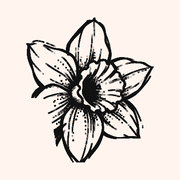
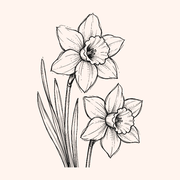
updates

Changed region(s): [[0.1389, 0.0556, 0.8611, 0.9444]]

diff --git a/index.html b/index.html
@@ -33,6 +33,8 @@
        pick a flag to continue. Reopen anytime from the floating menu.
        ============================================================ -->
   <div id="language-select" class="language-select">
+    <img class="daffodil side-daffodil side-daffodil--left" src="images/dafodill.png" alt="" aria-hidden="true">
+    <img class="daffodil side-daffodil side-daffodil--right" src="images/dafodill.png" alt="" aria-hidden="true">
     <h2>María &amp; Dafydd</h2>
     <div class="language-select__options">
       <button type="button" class="language-flag" data-set-lang="es">
@@ -82,6 +84,8 @@
        WEDDING_DATETIME at the top of js/script.js to match.
        ============================================================ -->
   <header id="top" class="hero">
+    <img class="daffodil side-daffodil side-daffodil--left" src="images/dafodill.png" alt="" aria-hidden="true">
+    <img class="daffodil side-daffodil side-daffodil--right" src="images/dafodill.png" alt="" aria-hidden="true">
     <h1 class="hero__names">María &amp; Dafydd</h1>
     <div class="hero__date">
       <span data-lang="en">4th December 2027 · Madrid</span>
@@ -147,22 +151,17 @@
     <div class="container">
       <h2 class="section-title"><span data-lang="en">RSVP</span><span data-lang="es">Confirmar Asistencia</span></h2>
 
-      <!-- RSVP PLACEHOLDER — delete this div once you paste your Google Form
-           iframe below (see README.md for the exact steps). -->
-      <div class="rsvp-placeholder">
-        Google Form goes here. See README.md for setup steps.
-      </div>
-
-      <!-- EDIT: uncomment this once you have your Google Form embed link,
-           and delete the placeholder div above.
+      <!-- Google Form (https://forms.gle/qLs2wwSgXYqQDHkAA) -->
       <div class="rsvp-frame-wrapper">
         <iframe
           title="RSVP form"
-          src="PASTE_YOUR_GOOGLE_FORM_EMBED_URL_HERE"
+          src="https://docs.google.com/forms/d/e/1FAIpQLSd0lYAYaazDG489JMXbdH1TYj_v0LfrO-pahEuP525YMoAD8A/viewform?embedded=true"
           loading="lazy">
         </iframe>
       </div>
-      -->
+      <p class="rsvp-note">
+        <a href="https://forms.gle/qLs2wwSgXYqQDHkAA" target="_blank" rel="noopener"><span data-lang="en">Trouble seeing the form? Open it in a new tab</span><span data-lang="es">¿No ves el formulario? Ábrelo en una nueva pestaña</span></a>
+      </p>
 
       <p class="rsvp-note"><span data-lang="en">Please respond by <em>[EDIT: RSVP deadline]</em>.</span><span data-lang="es">Por favor, confirmad antes del <em>[EDITAR: fecha límite]</em>.</span></p>
     </div>
@@ -189,7 +188,7 @@
         </div>
 
         <div class="photo-card" data-open-modal="modal-reception">
-          <img src="images/elcasino.jpeg" alt="Casino de Madrid">
+          <img class="img--whole" src="images/elcasino.jpeg" alt="Casino de Madrid">
           <div class="photo-card__label">
             <div>
               <div class="photo-card__title"><span data-lang="en">Reception</span><span data-lang="es">Recepción</span></div>
@@ -292,7 +291,6 @@
   </section>
 
   <div class="closing">
-    <img class="daffodil daffodil--br" src="images/daffodil-br.png" alt="" aria-hidden="true">
     <div class="container">
       <h2><span data-lang="en">We can't wait to celebrate with you!</span><span data-lang="es">¡Estamos deseando celebrarlo con vosotros!</span></h2>
     </div>
@@ -323,7 +321,7 @@
     <div class="modal__body">
       <div class="modal__close" data-close-modal>&times;</div>
       <h3><span data-lang="en">Reception Details</span><span data-lang="es">Detalles de la Recepción</span></h3>
-      <img class="modal__img" src="images/elcasino.jpeg" alt="Casino de Madrid">
+      <img class="modal__img img--whole" src="images/elcasino.jpeg" alt="Casino de Madrid">
       <p>
         Casino de Madrid<br>
         Calle de Alcalá, 15, 28014 Madrid<br><br>
@@ -342,7 +340,7 @@
       <h3><span data-lang="en">Travel &amp; Hotels</span><span data-lang="es">Viaje y Alojamiento</span></h3>
       <p data-lang="en">We won't be arranging transport or accommodation, but everything is centrally located and easy to reach by metro or bus. The Sevilla stop (Line 2) sits right alongside the church. If you're travelling from abroad, Madrid's airport is Adolfo Suárez Madrid–Barajas (MAD).</p>
       <p data-lang="es">No organizaremos transporte ni alojamiento, ya que la celebración es en pleno centro de Madrid. La parada de Sevilla (Línea 2) está justo al lado de la iglesia.</p>
-      <p data-lang="en"><b>Good to know:</b> our wedding weekend falls on a long holiday weekend in Spain: Monday 6th December (Día de la Constitución) and Wednesday 8th December (La Inmaculada) are both national public holidays. We'd really recommend booking your flights and accommodation well in advance, as prices tend to spike over this popular travel period.</p>
+      <p data-lang="en"><b>Good to know:</b> our wedding weekend falls on a long holiday weekend in Spain: Monday 6th December (Día de la Constitución) and Wednesday 8th December (La Inmaculada) are both national public holidays. We'd really recommend booking your flights and accommodation well in advance, as prices may spike over this popular travel period.</p>
       <p data-lang="es"><b>Un aviso:</b> nuestro fin de semana de boda coincide el puente de diciembre: el lunes 6 de diciembre (Día de la Constitución) y el miércoles 8 de diciembre (La Inmaculada) son ambos festivos nacionales. Os recomendamos reservar vuelos y alojamiento con bastante antelación, ya que los precios suelen subir en estas fechas.</p>
       <p data-lang="en">There are plenty of hotels and Airbnbs throughout the city to suit every budget and location. Here are a few of our own recommendations:</p>
       <p data-lang="es">Hay muchos hoteles y Airbnbs por toda la ciudad para todos los presupuestos y zonas. Aquí tenéis algunas recomendaciones nuestras:</p>
@@ -362,7 +360,7 @@
         Spain has quite strict wedding etiquette regarding attire, so please do your best to follow it, as it's a cultural practice we'd love for you to be part of. This is a religious ceremony, so please dress accordingly.
         <br><br>
         <b>Ladies:</b> a long dress with appropriate coverage for the church.<br>
-        <b>Men:</b> a suit or kilt, tie, and dress shoes are mandatory.
+        <b>Men:</b> a suit or kilt, tie/bowtie, and dress shoes are mandatory.
         <br><br>
         <b>Weather:</b> Madrid in December is chilly, with daytime temperatures around 4–12°C. Most of the day will be spent indoors, but we recommend bringing a coat.
       </p>

diff --git a/css/style.css b/css/style.css
@@ -82,6 +82,7 @@ a {
 .language-select {
   position: fixed;
   inset: 0;
+  overflow: hidden;
   z-index: 50;
   background-color: var(--ivory);
   display: flex;
@@ -256,7 +257,7 @@ a {
 }
 
 .countdown__unit {
-  background-color: var(--chip);
+  background-color: #f6ece5;
   border: 1px solid var(--line);
   border-radius: .6rem;
   padding: .9rem 1.1rem;
@@ -287,22 +288,34 @@ a {
 }
 
 .hero > :not(.daffodil),
-.closing > :not(.daffodil) {
+.language-select > :not(.daffodil) {
   position: relative;
   z-index: 1;
 }
 
-.daffodil--br {
-  bottom: 0;
+/* Watercolour daffodils filling the full height of the language screen
+   and the opening screen, one each side; the outer edge tucks off-screen. */
+.side-daffodil {
+  top: 0;
+  height: 100%;
+  width: auto;
+}
+
+.side-daffodil--left {
+  left: 0;
+  transform: translateX(-20%);
+}
+
+.side-daffodil--right {
   right: 0;
-  width: 13rem;
+  transform: translateX(20%) scaleX(-1);
 }
 
 .closing {
   position: relative;
   overflow: hidden;
   text-align: center;
-  padding: 5rem 0 16rem;
+  padding: 5rem 0 6rem;
   border-top: 1px solid var(--line);
 }
 
@@ -359,6 +372,11 @@ a {
 }
 
 .photo-card--sketch img {
+  object-fit: contain;
+}
+
+.photo-card img.img--whole,
+.modal__img.img--whole {
   object-fit: contain;
 }
 
@@ -460,25 +478,13 @@ a {
 /* ---------- RSVP ---------- */
 
 .rsvp-frame-wrapper iframe {
+  display: block;
   width: 100%;
-  min-height: 640px;
+  max-width: 44rem;
+  margin: 0 auto;
+  min-height: 1000px;
   border: none;
   border-radius: .6rem;
-}
-
-.rsvp-placeholder {
-  max-width: 40rem;
-  margin: 0 auto;
-  min-height: 200px;
-  display: flex;
-  align-items: center;
-  justify-content: center;
-  text-align: center;
-  border: 2px dashed var(--taupe);
-  border-radius: .8rem;
-  padding: 2rem;
-  color: var(--muted);
-  font-size: 1.1rem;
 }
 
 .rsvp-note {
@@ -563,6 +569,16 @@ a {
 
 /* ---------- Responsive ---------- */
 
+@media only screen and (min-width: 769px) and (max-width: 1150px) {
+  .side-daffodil--left {
+    transform: translateX(-38%);
+  }
+
+  .side-daffodil--right {
+    transform: translateX(38%) scaleX(-1);
+  }
+}
+
 @media only screen and (max-width: 768px) {
   .welcome-grid {
     grid-template-columns: 1fr;
@@ -570,6 +586,10 @@ a {
 
   .photo-grid {
     grid-template-columns: 1fr;
+  }
+
+  .rsvp-frame-wrapper iframe {
+    min-height: 1150px;
   }
 
   .faq-grid {
@@ -627,11 +647,15 @@ a {
     max-height: 90vh;
   }
 
-  .daffodil--br {
-    width: 6.5rem;
+  .side-daffodil--left {
+    transform: translateX(-78%);
+  }
+
+  .side-daffodil--right {
+    transform: translateX(78%) scaleX(-1);
   }
 
   .closing {
-    padding: 3.5rem 0 11rem;
+    padding: 3.5rem 0 4rem;
   }
 }
